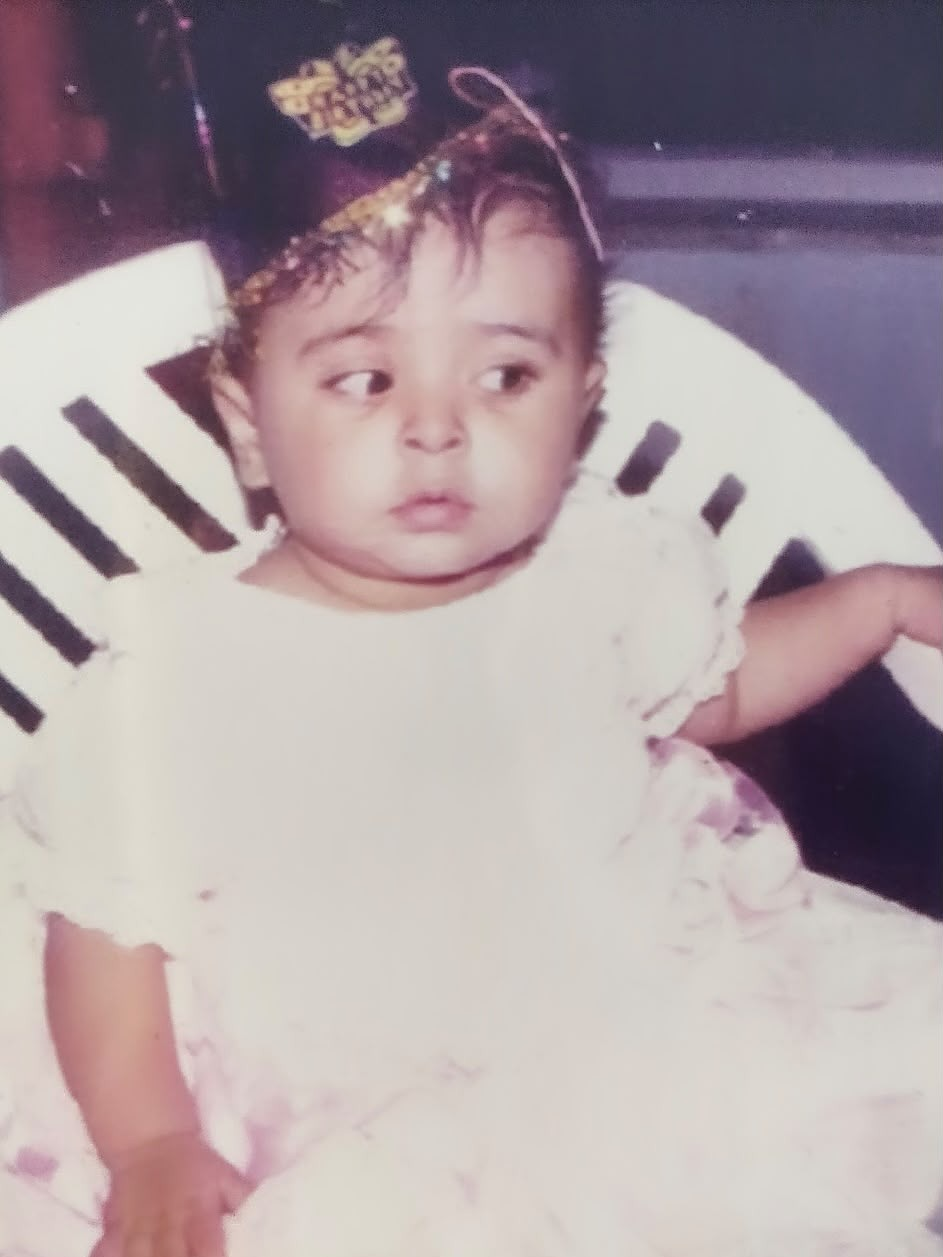
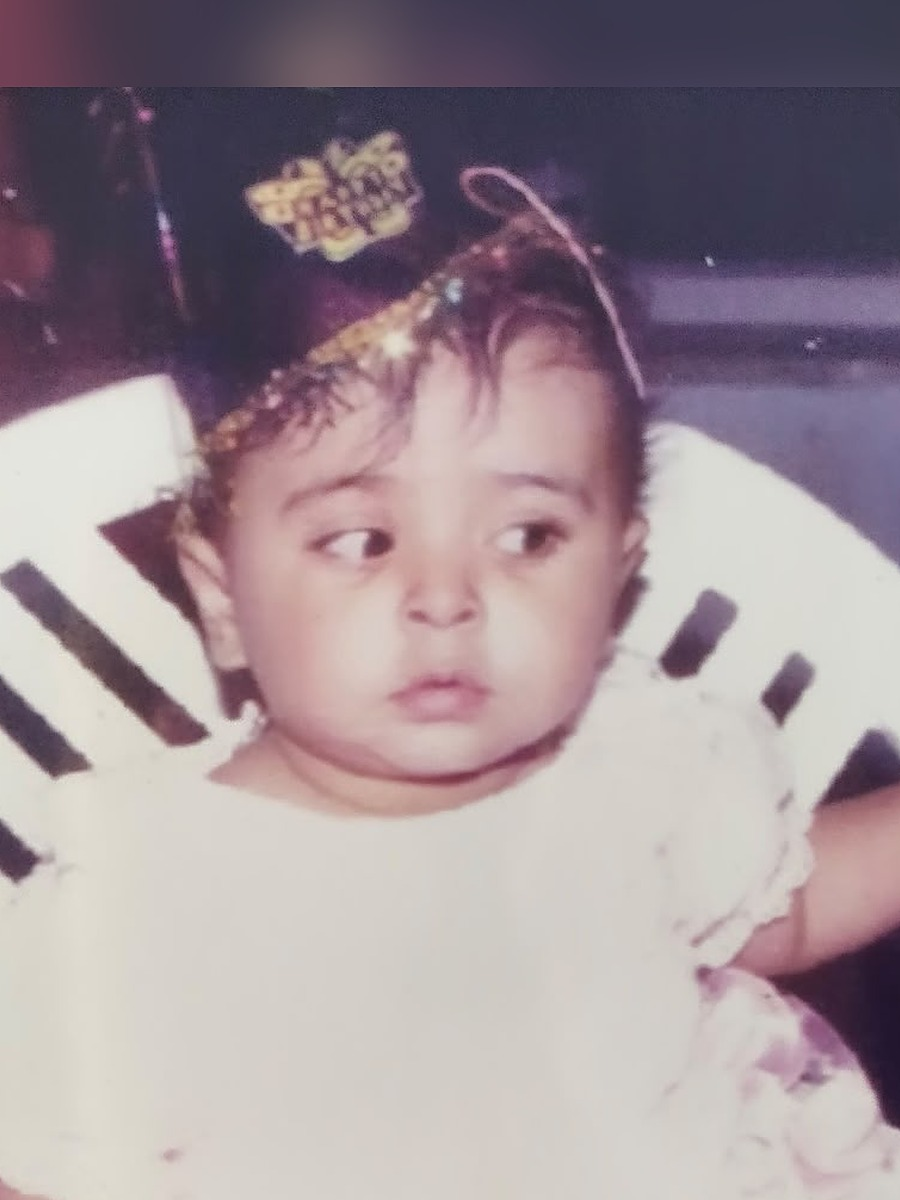
commit

diff --git a/src/components/Background.tsx b/src/components/Background.tsx
@@ -38,7 +38,10 @@ function Particles() {
   );
 }
 
-// The current baby's animated clip behind the game, shown whole (uncropped) and crossfading between babies.
+const SIDE_CLIP = "block w-full rounded-xl object-contain shadow-[0_24px_50px_-16px_rgba(0,0,0,.8)]";
+
+// The current baby's animated clip: a blurred full-screen fill (so small clips still cover the
+// background) plus a sharp, uncropped copy on each side of the photo frame, never behind it.
 function ClipBackdrop({ src }: { src?: string }) {
   return (
     <div className="absolute inset-0 motion-reduce:hidden" aria-hidden>
@@ -46,13 +49,12 @@ function ClipBackdrop({ src }: { src?: string }) {
         {src && (
           <motion.div
             key={src}
-            initial={{ opacity: 0, scale: 1.04 }}
-            animate={{ opacity: 1, scale: 1 }}
+            initial={{ opacity: 0 }}
+            animate={{ opacity: 1 }}
             exit={{ opacity: 0 }}
             transition={{ duration: 1.2, ease: "easeOut" }}
             className="absolute inset-0"
           >
-            {/* blurred, zoomed fill so the screen has no empty bars */}
             <video
               src={src}
               autoPlay
@@ -60,18 +62,18 @@ function ClipBackdrop({ src }: { src?: string }) {
               loop
               playsInline
               disablePictureInPicture
-              className="absolute inset-0 h-full w-full scale-110 object-cover opacity-30 blur-2xl saturate-[1.2]"
+              className="absolute inset-0 h-full w-full scale-125 object-cover opacity-25 blur-3xl saturate-[1.3]"
             />
-            {/* whole clip, never cropped, so the baby's face is always in view */}
-            <video
-              src={src}
-              autoPlay
-              muted
-              loop
-              playsInline
-              disablePictureInPicture
-              className="absolute inset-0 h-full w-full object-contain opacity-40 blur-[2px]"
-            />
+            <div className="absolute inset-y-0 left-0 hidden w-[calc(50vw-min(22vw,17rem))] items-center justify-center p-[3vw] lg:flex">
+              <motion.div initial={{ x: -40, rotate: -6 }} animate={{ x: 0, rotate: -3 }} transition={{ duration: 1.2 }} className="w-full max-w-[22rem]">
+                <video src={src} autoPlay muted loop playsInline disablePictureInPicture className={`${SIDE_CLIP} max-h-[70dvh] opacity-80`} />
+              </motion.div>
+            </div>
+            <div className="absolute inset-y-0 right-0 hidden w-[calc(50vw-min(22vw,17rem))] items-center justify-center p-[3vw] lg:flex">
+              <motion.div initial={{ x: 40, rotate: 6 }} animate={{ x: 0, rotate: 3 }} transition={{ duration: 1.2 }} className="w-full max-w-[22rem]">
+                <video src={src} autoPlay muted loop playsInline disablePictureInPicture className={`${SIDE_CLIP} max-h-[70dvh] scale-x-[-1] opacity-80`} />
+              </motion.div>
+            </div>
           </motion.div>
         )}
       </AnimatePresence>

diff --git a/src/lib/image.ts b/src/lib/image.ts
@@ -18,8 +18,8 @@ async function findFace(img: HTMLImageElement): Promise<{ x: number; y: number }
 }
 
 /**
- * Reads an image file, crops it to the 3:4 photo frame around the face (or the
- * upper-centre, where faces usually are) and encodes a high-quality JPEG data URL.
+ * Reads an image file, crops it to the 3:4 photo frame with the face (or the
+ * upper-centre, where faces usually are) dead-centre, and encodes a high-quality JPEG data URL.
  */
 export function compressImageFile(file: File, width = 1200, quality = 0.9): Promise<string> {
   return new Promise((resolve, reject) => {
@@ -33,14 +33,14 @@ export function compressImageFile(file: File, width = 1200, quality = 0.9): Prom
       try {
         const W = img.naturalWidth;
         const H = img.naturalHeight;
-        const cw = Math.min(W, (H * 3) / 4);
-        const ch = (cw * 4) / 3;
         const face = (await findFace(img)) ?? { x: 0.5, y: 0.35 };
-        const sx = Math.min(Math.max(face.x * W - cw / 2, 0), W - cw);
-        const sy = Math.min(Math.max(face.y * H - ch * 0.42, 0), H - ch);
+        // Crop window (in source px) that puts the face dead-centre; may extend past the photo's edges.
+        const cw = Math.min(W, (H * 3) / 4) * 0.85;
+        const ch = (cw * 4) / 3;
         // Never upscale: keep the source's own resolution if it is smaller.
         const outW = Math.round(Math.min(width, cw));
         const outH = Math.round((outW * 4) / 3);
+        const scale = outW / cw;
         const canvas = document.createElement("canvas");
         canvas.width = outW;
         canvas.height = outH;
@@ -48,7 +48,12 @@ export function compressImageFile(file: File, width = 1200, quality = 0.9): Prom
         if (!ctx) throw new Error("Canvas not supported");
         ctx.imageSmoothingEnabled = true;
         ctx.imageSmoothingQuality = "high";
-        ctx.drawImage(img, sx, sy, cw, ch, 0, 0, outW, outH);
+        // Blurred cover fill for any part of the frame outside the photo.
+        const cover = Math.max(outW / W, outH / H);
+        ctx.filter = "blur(24px)";
+        ctx.drawImage(img, (outW - W * cover) / 2, (outH - H * cover) / 2, W * cover, H * cover);
+        ctx.filter = "none";
+        ctx.drawImage(img, outW / 2 - face.x * W * scale, outH / 2 - face.y * H * scale, W * scale, H * scale);
         resolve(canvas.toDataURL("image/jpeg", quality));
       } catch (e) {
         reject(e);
